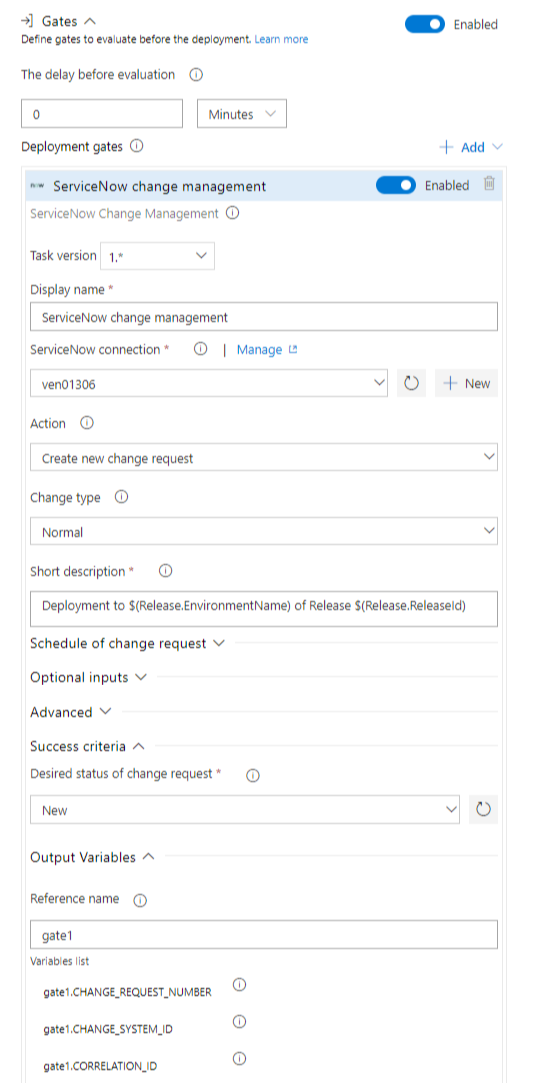
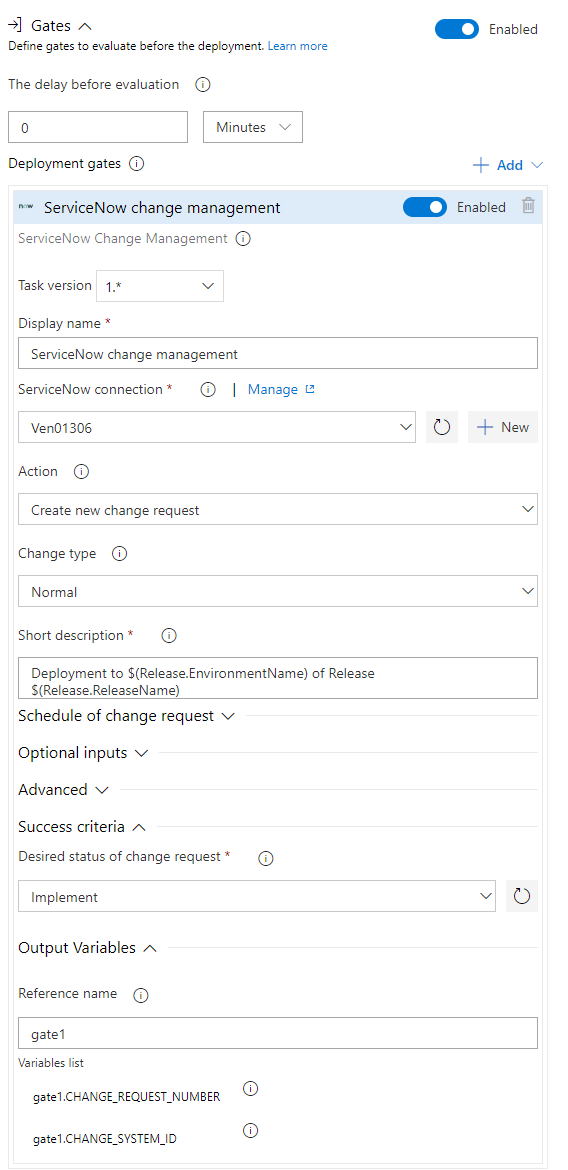
Query by Correlation Id is removed and other minor bug fixes

diff --git a/Extensions/ServiceNow/Src/readme.md b/Extensions/ServiceNow/Src/readme.md
@@ -40,7 +40,7 @@ Inputs provided in the gate are used as properties for the new change request in
 - **Standard change template**: Change template name for the change request.
 - **Short description**: A summary of the change.
 - **Change query criteria**: Criteria for querying change request. Must uniquely identify the change request. Gate would fail if multiple matching change requests are found.
-- **query string/ change request number/ correlationid**: Change request to use.
+- **query string/ change request number**: Change request to use.
 
 Additional properties can be set in the created change request using the following inputs. Note: Available inputs change based on the selected change type. 
 
@@ -62,7 +62,6 @@ ServiceNow gate produces output variables.                                     
 
 - **CHANGE_REQUEST_NUMBER** : Number of the change request.
 - **CHANGE_SYSTEM_ID** : Sys Id of the change request.
-- **CORRELATION_ID** : Correlation Id of the change request.
 
 #### Add a task to update the change request
 
